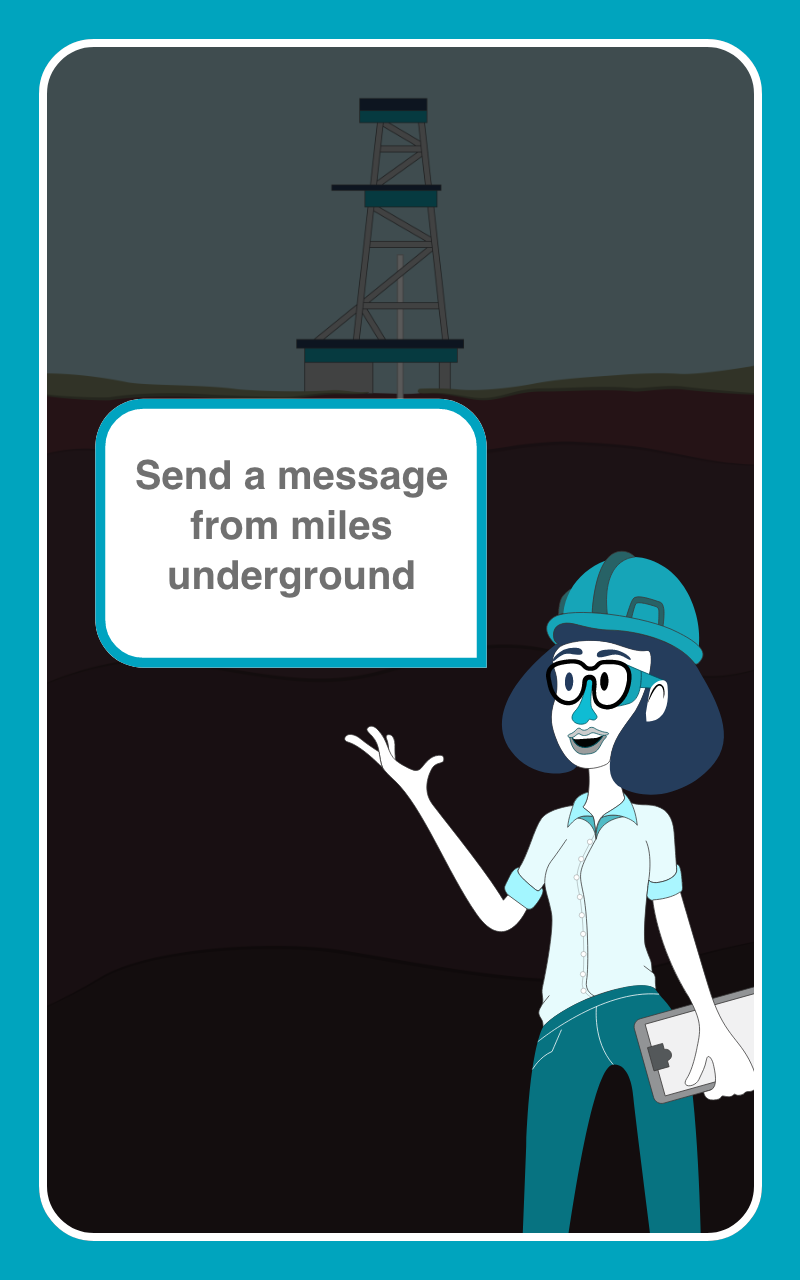
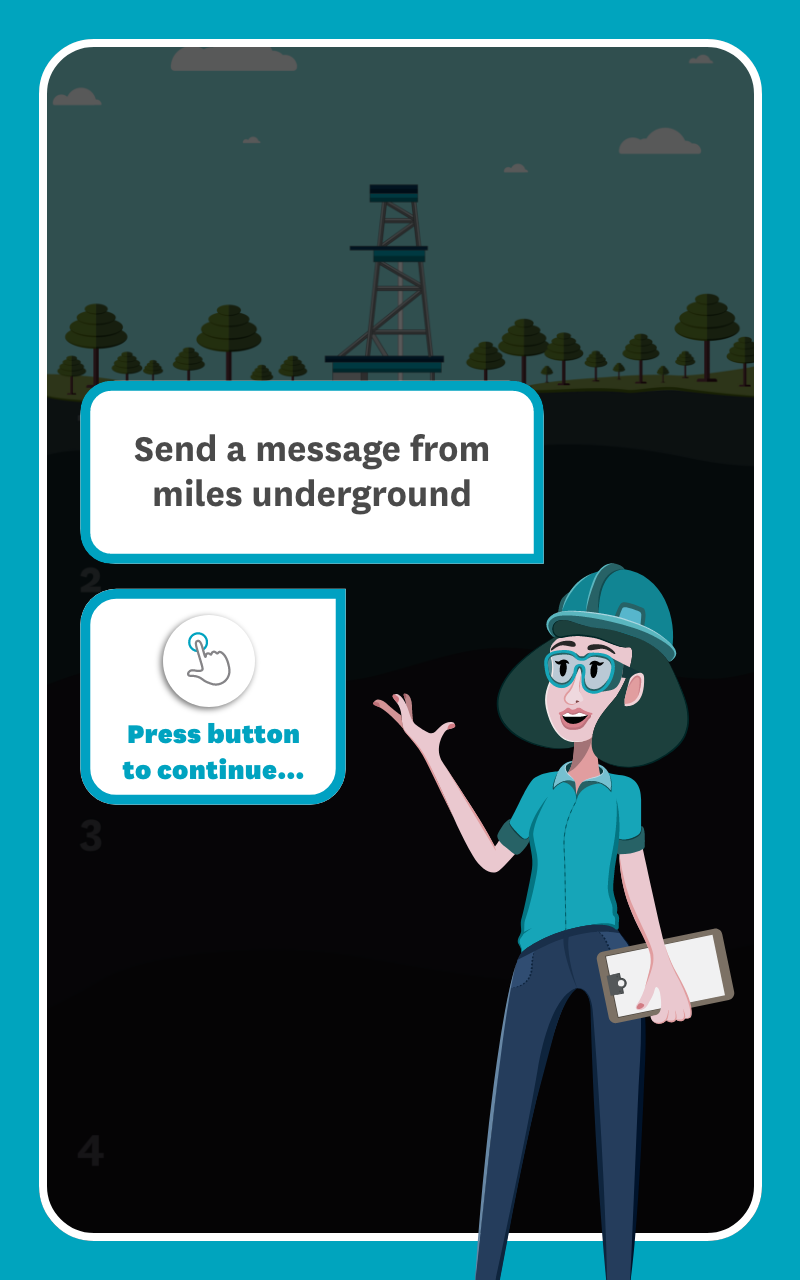
refactor: Added new images, fixed logic issue where graph would not reset at the correct time

diff --git a/src/App/index.js b/src/App/index.js
@@ -25,6 +25,7 @@ class App extends Component {
     };
 
     this.getArtboard = this.getArtboard.bind(this);
+    this.getSpinnerMessage = this.getSpinnerMessage.bind(this);
     this.onSerialData = this.onSerialData.bind(this);
     this.pingArduino = this.pingArduino.bind(this);
     this.refreshPorts = this.refreshPorts.bind(this);
@@ -116,60 +117,72 @@ class App extends Component {
 
   getArtboard() {
     const { invalidPulse, step } = this.state;
-    if (invalidPulse) return '/images/Screen_15_2019.png';
-    let src = '';
+    if (invalidPulse) {
+      switch (step) {
+        case 5:
+          return '/images/Layer1_ErrorScreen.png';
+        case 9:
+          return '/images/Layer2_ErrorScreen.png';
+        case 13:
+          return '/images/Layer3_ErrorScreen.png';
+        default:
+          return '';
+      }
+    }
 
     switch (step) {
       case 0:
-        src = '/images/Title_Screen_2019.png';
-        break;
+        return '/images/Title_Screen_2019.png';
       case 1:
-        src = '/images/Screen_1_2019.png';
-        break;
+        return '/images/Screen_1_2019.png';
       case 2:
-        src = '/images/Screen_2_2019.png';
-        break;
+        return '/images/Screen_2_2019.png';
       case 3:
-        src = '/images/Screen_3_2019.png';
-        break;
+        return '/images/Screen_3_2019.png';
       case 4:
-        src = '/images/Screen_4_2019.png';
-        break;
+        return '/images/First_Layer.png';
       case 5:
-        src = '/images/Screen_5_2019.png';
-        break;
+        return '/images/First_Layer-1.png';
       case 6:
-        src = '/images/Screen_6_2019.png';
-        break;
+        return '/images/Second_Layer.png';
       case 7:
-        src = '/images/Screen_7_2019.png';
-        break;
+        return '/images/Second_Layer-1.png';
       case 8:
-        src = '/images/Screen_8_2019.png';
-        break;
+        return '/images/Second_Layer-2.png';
       case 9:
-        src = '/images/Screen_9_2019.png';
-        break;
+        return '/images/Second_Layer-3.png';
       case 10:
-        src = '/images/Screen_10_2019.png';
-        break;
+        return '/images/Third_Layer-3.png';
       case 11:
-        src = '/images/Screen_11_2019.png';
-        break;
+        return '/images/Third_Layer.png';
       case 12:
-        src = '/images/Screen_12_2019.png';
-        break;
+        return '/images/Third_Layer-1.png';
       case 13:
-        src = '/images/Screen_13_2019.png';
-        break;
+        return '/images/Third_Layer-2.png';
       case 14:
-        src = '/images/Screen_14_2019.png';
-        break;
+        return '/images/Oil_Layer.png';
       default:
-        break;
+        return '';
     }
+  }
 
-    return src;
+  getSpinnerMessage() {
+    const { step } = this.state;
+
+    switch (step) {
+      case 3:
+        return 'Drilling has started...';
+      case 5:
+      case 9:
+      case 13:
+        return 'Receiving data...';
+      case 7:
+      case 11:
+        return 'Resume Drilling...';
+      case 0:
+      default:
+        return '';
+    }
   }
 
   pingArduino() {
@@ -202,25 +215,7 @@ class App extends Component {
   }
 
   render() {
-    const {
-      graphing, handshake, resetMessage, step,
-    } = this.state;
-
-    if (!handshake) {
-      return (
-        <Container>
-          <p>
-            Step:
-            {' '}
-            {step}
-          </p>
-          <img alt="Artboard" className="artboard" src={this.getArtboard()} />
-          <div className="spinner-container">
-            <Spinner />
-          </div>
-        </Container>
-      );
-    }
+    const { resetMessage, step } = this.state;
 
     if (resetMessage) {
       setTimeout(() => {
@@ -228,6 +223,11 @@ class App extends Component {
         window.location.reload();
       }, 10000);
     }
+
+    const spinnerVisibilityClass = (
+      step === 0 || step === 3 || step === 5 || step === 7
+      || step === 9 || step === 11 || step === 13
+    ) ? 'spinner-container' : 'd-none spinner-container';
 
     return (
       <Fragment>
@@ -238,8 +238,11 @@ class App extends Component {
             {step}
           </p>
           <img alt="Artboard" className="artboard" src={this.getArtboard()} />
+          <div className={spinnerVisibilityClass}>
+            <Spinner />
+            <span className="text-light">{this.getSpinnerMessage()}</span>
+          </div>
           <PeriodicGraphWithSerialCommunication
-            graphing={graphing}
             gridColor="rgb(255, 255, 255)"
             label="Sampled Pulses"
             message="pressure-reading"

diff --git a/src/Graph/PeriodicGraph.js b/src/Graph/PeriodicGraph.js
@@ -12,7 +12,6 @@ class PeriodicGraph extends Component {
     this.state = {
       backgroundColor: props.backgroundColor,
       borderColor: props.borderColor,
-      graphing: props.graphing,
       gridColor: props.gridColor,
       message: props.message,
       type: props.type,
@@ -41,14 +40,15 @@ class PeriodicGraph extends Component {
   }
 
   onSerialData(data) {
-    const { resetMessage } = this.props;
-    const { graphing, message } = this.state;
+    const { resetMessage, step } = this.props;
+    const { message } = this.state;
 
     if (!resetMessage) {
-      if (data.message === 'button-press' && graphing) {
+      if (data.message === 'button-press' && (step === 4 || step === 8 || step === 12)) {
         this.resetGraph();
         this.chartReference.chartInstance.config.options.plugins.streaming.pause = false;
       }
+
       if (data.message === 'time-up') {
         this.chartReference.chartInstance.config.options.plugins.streaming.pause = true;
       }
@@ -162,7 +162,6 @@ class PeriodicGraph extends Component {
 PeriodicGraph.propTypes = {
   backgroundColor: propTypes.string,
   borderColor: propTypes.string,
-  graphing: propTypes.bool.isRequired,
   gridColor: propTypes.string,
   message: propTypes.string.isRequired,
   resetMessage: propTypes.bool.isRequired,

diff --git a/src/App/index.css b/src/App/index.css
@@ -60,6 +60,16 @@ code {
   transform: translate(-50%, -50%);
 }
 
+.spinner-container span {
+  font-size: 2em;
+  left: 50%;
+  position: absolute;
+  text-align: center;
+  transform: translate(-50%, -50%);
+  top: 50%;
+  width: 100%;
+}
+
 .spinner-container .spinner-border {
   border-color: crimson;
   border-right-color: transparent;
